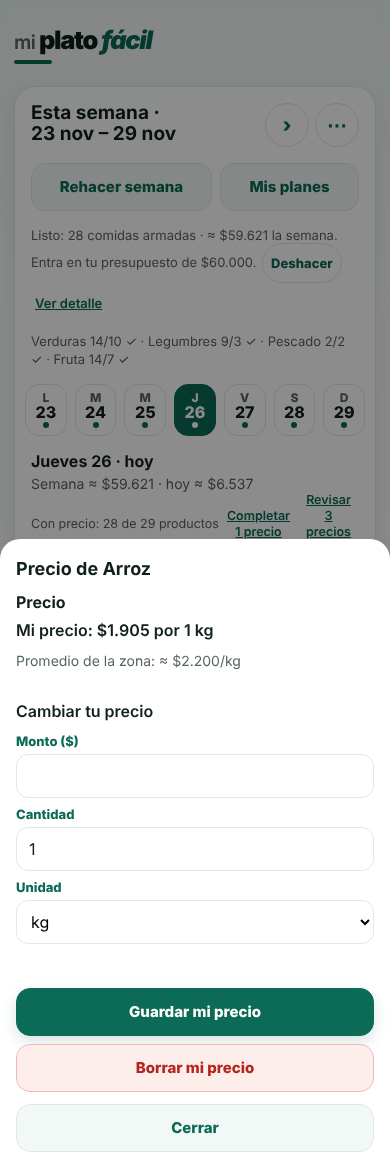
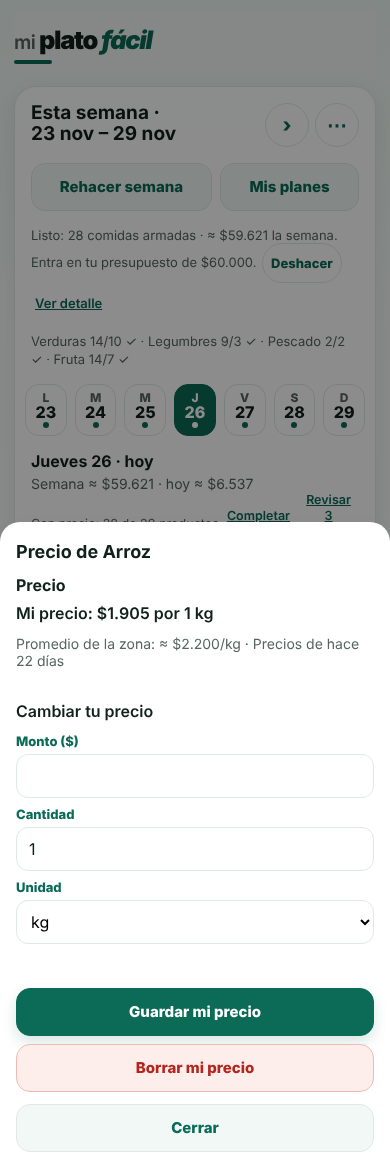
Etapa 45: ajustes de la revisión (ficha de precio con Mi precio, guardas de las opciones de prueba)
Claude-Session: https://claude.ai/code/session_013apjtg9s7WhVBtjMzXPnF4

diff --git a/index.html b/index.html
@@ -7228,7 +7228,7 @@ function shoppingBudgetRender(){
   box.append(ce("p","screen__hint",covered+" ingredientes valorizados; "+unpriced+" sin costo completo; "+otherCurrency+" con precio en otra moneda."));
   if(unpriced||otherCurrency)box.append(ce("p","screen__hint","Comparación parcial: faltan precios."));
   else box.append(ce("p","screen__hint","Con tus precios guardados."));
-  if(typeof antiguedadPrecios==="function"&&preciosActivos()&&antiguedadPrecios())box.append(ce("p","screen__hint presupuesto-antiguedad",[fuentePrecios(undefined,"sepa").replace(" · mediana",""),antiguedadPrecios()].filter(Boolean).join(" · ")));
+  if(typeof antiguedadPrecios==="function"&&preciosActivos()&&totalAutomaticoLista()&&antiguedadPrecios())box.append(ce("p","screen__hint presupuesto-antiguedad",[fuentePrecios(undefined,"sepa").replace(" · mediana",""),antiguedadPrecios()].filter(Boolean).join(" · ")));
   budgetRealLines(box,budget,estimated)
 }
 let budgetScenarioText="";
@@ -15922,10 +15922,10 @@ function fichaPrecio(nombre){
     cont.append(ce("h3","ficha-precio__titulo","Precio"));
     if(dual)for(const x of dual)cont.append(ce("p","ficha-precio__linea",x.texto));
     else cont.append(ce("p","ficha-precio__linea",textoPrecioFicha(nombre)));
-    if(!mio&&antiguedadPrecios())cont.append(ce("p","screen__hint ficha-precio__antiguedad",antiguedadPrecios()));
+    {const auto=mio?null:precioAuto(nombre);if(auto&&auto.fuente==="sepa"&&antiguedadPrecios())cont.append(ce("p","screen__hint ficha-precio__antiguedad",antiguedadPrecios()))}
     if(mio){
       const auto=precioAuto(nombre);
-      if(auto)cont.append(ce("p","screen__hint","Promedio de la zona: ≈ "+pesosCortos(auto.precio)+"/"+(auto.it.b==="l"?"l":auto.it.b==="unidad"?"unidad":"kg")));
+      if(auto)cont.append(ce("p","screen__hint ficha-precio__antiguedad","Promedio de la zona: ≈ "+pesosCortos(auto.precio)+"/"+(auto.it.b==="l"?"l":auto.it.b==="unidad"?"unidad":"kg")+(auto.fuente==="sepa"&&antiguedadPrecios()?" · "+antiguedadPrecios():"")));
       const rev=precioParaRevisar(mio);
       if(rev){
         const caja=ce("div","ficha-precio__revision"),igual=ce("button","button button--soft","Sigue igual"),act=ce("button","button button--primary","Actualizar");

diff --git a/pruebas/r6e45_precios.js b/pruebas/r6e45_precios.js
@@ -22,6 +22,9 @@
   const ficha = ev('(() => { const c = fichaPrecio("Arroz"); document.body.append(c); c.id = "fichaPrueba"; return c.innerText })()');
   ok("R6-P-04 en la ficha de precio, bajo el precio, dice 'Precios de hace 22 días'", /Precios de hace 22 días/.test(ficha) && /≈ \$/.test(ficha), H.norm(ficha).slice(0, 160));
   ev('document.getElementById("fichaPrueba").remove()');
+  // Con Mi precio cargado, el "Promedio de la zona" lleva la antigüedad (es el precio automático el que tiene fecha).
+  const fichaMio = ev('(() => { const o = misPreciosDe; misPreciosDe = () => [{ id: "t1", name: "Arroz", price: 1905, amount: 1, unit: "kg", pack: "granel", currency: "ARS", date: "2026-11-20" }]; try { return fichaPrecio("Arroz").innerText } finally { misPreciosDe = o } })()');
+  ok("R6-P-04 en la ficha de precio con Mi precio cargado, el 'Promedio de la zona' también dice 'Precios de hace 22 días'", /Mi precio: \$1\.905/.test(fichaMio) && /Promedio de la zona: ≈ \$[\d.]+\/kg · Precios de hace 22 días/.test(fichaMio), H.norm(fichaMio).slice(0, 200));
   // Otros días: hoy, ayer, y un teléfono con fecha anterior al archivo no inventa nada.
   const antig = async hoy => { H.fijarFecha(hoy); return ev("antiguedadPrecios()") };
   ok("R6-P-04 la antigüedad se escribe en palabras: hoy, ayer, hace 2 días, hace 120 días; y con la fecha del teléfono anterior a la del archivo no se muestra",

diff --git a/fuente/codigo/43-precios.js b/fuente/codigo/43-precios.js
@@ -813,10 +813,10 @@ function fichaPrecio(nombre){
     cont.append(ce("h3","ficha-precio__titulo","Precio"));
     if(dual)for(const x of dual)cont.append(ce("p","ficha-precio__linea",x.texto));
     else cont.append(ce("p","ficha-precio__linea",textoPrecioFicha(nombre)));
-    if(!mio&&antiguedadPrecios())cont.append(ce("p","screen__hint ficha-precio__antiguedad",antiguedadPrecios()));
+    {const auto=mio?null:precioAuto(nombre);if(auto&&auto.fuente==="sepa"&&antiguedadPrecios())cont.append(ce("p","screen__hint ficha-precio__antiguedad",antiguedadPrecios()))}
     if(mio){
       const auto=precioAuto(nombre);
-      if(auto)cont.append(ce("p","screen__hint","Promedio de la zona: ≈ "+pesosCortos(auto.precio)+"/"+(auto.it.b==="l"?"l":auto.it.b==="unidad"?"unidad":"kg")));
+      if(auto)cont.append(ce("p","screen__hint ficha-precio__antiguedad","Promedio de la zona: ≈ "+pesosCortos(auto.precio)+"/"+(auto.it.b==="l"?"l":auto.it.b==="unidad"?"unidad":"kg")+(auto.fuente==="sepa"&&antiguedadPrecios()?" · "+antiguedadPrecios():"")));
       const rev=precioParaRevisar(mio);
       if(rev){
         const caja=ce("div","ficha-precio__revision"),igual=ce("button","button button--soft","Sigue igual"),act=ce("button","button button--primary","Actualizar");

diff --git a/fuente/codigo/11-existencias-y-presupuesto.js b/fuente/codigo/11-existencias-y-presupuesto.js
@@ -161,7 +161,7 @@ function shoppingBudgetRender(){
   box.append(ce("p","screen__hint",covered+" ingredientes valorizados; "+unpriced+" sin costo completo; "+otherCurrency+" con precio en otra moneda."));
   if(unpriced||otherCurrency)box.append(ce("p","screen__hint","Comparación parcial: faltan precios."));
   else box.append(ce("p","screen__hint","Con tus precios guardados."));
-  if(typeof antiguedadPrecios==="function"&&preciosActivos()&&antiguedadPrecios())box.append(ce("p","screen__hint presupuesto-antiguedad",[fuentePrecios(undefined,"sepa").replace(" · mediana",""),antiguedadPrecios()].filter(Boolean).join(" · ")));
+  if(typeof antiguedadPrecios==="function"&&preciosActivos()&&totalAutomaticoLista()&&antiguedadPrecios())box.append(ce("p","screen__hint presupuesto-antiguedad",[fuentePrecios(undefined,"sepa").replace(" · mediana",""),antiguedadPrecios()].filter(Boolean).join(" · ")));
   budgetRealLines(box,budget,estimated)
 }
 let budgetScenarioText="";

diff --git a/docs/plan-rediseno.md b/docs/plan-rediseno.md
@@ -3319,6 +3319,8 @@ Rama `rediseno-6-etapa-45-precios`. Ítems: P-01, P-02 (⚠), P-03, P-04 y P-
 - ✅ R6-P-03: si SEPA no da precios nuevos y los guardados (`sepa.fecha`, o `revisado` si no hay SEPA) tienen más de 10 días, `actualizar-precios.mjs` termina con código 1 antes de escribir nada: el job queda en rojo y GitHub avisa. Con 10 días o menos, sigue como antes (avisa y conserva lo anterior). Con `--solo-indec` no se mira. Comprobado en la corrida real: "los guardados son de hace 22 días (del 2026-11-04; el máximo es 10) … datos/precios.json queda como estaba". (Decisión) Mientras SEPA esté bloqueado, tampoco se aplica el INDEC mensual de esa corrida: es lo que pide el ítem ("deja datos/precios.json como estaba"); la opción 3 de P-02 lo evita. Se agregaron `--previo` y `--indec-json` (solo para pruebas: un JSON ya armado en lugar del .xls).
 - ✅ R6-P-04: "Precios de hace 22 días" (también "de hoy", "de ayer", "de hace 2 días"…) junto a la fuente en la lista, en el panel de Presupuesto y en la ficha de precio; la cuenta es contra la fecha del teléfono y se calcula con la fecha de SEPA (o la de revisión si no hay SEPA). Con la fecha del teléfono anterior a la del archivo no se muestra nada.
 - ✅ R6-P-05: desde los 14 días la lista muestra un aviso naranja: "Los precios pueden estar desactualizados. Tus precios (Mi precio) se usan primero." Con 13 días no aparece; con los precios apagados, tampoco.
-- Pruebas nuevas: `r6e45_precios.js` (7, en la batería de la app) y `r6e45_precios.mjs` (13, en Node; las corre la compuerta como controles `R6-P-01` a `R6-P-03`, y la tarea de prueba de GitHub). No se adaptó ninguna prueba vieja.
+- Revisión de código (`revisor-codigo`): NO BLOQUEANTE; se aplicaron sus sugerencias: `--previo` y `--indec-json` exigen `--salida` y un `--previo` ilegible falla (nunca caen sobre `datos/precios.json`), el error de red después de un 403 no pierde el 403, la antigüedad de la ficha de precio solo sale con precio automático de SEPA, y la del presupuesto solo si hay precios automáticos. Revisión de capturas (`revisor-usuario`): P-01, P-03 y P-05 HECHO; P-04 NO HECHO en la ficha (con Mi precio cargado, el "Promedio de la zona" no decía la antigüedad): corregido y recapturado, ahora "Promedio de la zona: ≈ $2.200/kg · Precios de hace 22 días". P-02 (⚠): el motivo y las opciones quedaron claros; se agregó una frase sin jerga a la opción 1 y se marcó cuál se recomienda.
+- (Observación, ya estaba en `main`) En la lista, un renglón con una nota larga de la despensa ("Zanahoria: 940 g · revisá …") se rompe en una columna de una letra por línea. No lo introdujo esta etapa; se arregla en la Etapa 46 (que reordena la lista), con una prueba.
+- Pruebas nuevas: `r6e45_precios.js` (8, en la batería de la app) y `r6e45_precios.mjs` (15, en Node; las corre la compuerta como controles `R6-P-01` a `R6-P-03`, y la tarea de prueba de GitHub). No se adaptó ninguna prueba vieja.
 - Infraestructura: `validar-etapa.mjs` acepta 0 a 55, usa `rediseno-6` como rama de integración desde la Etapa 45 y no exige la prueba de un ítem en ⚠ de la Ronda 6; `controlar-lista-r6.mjs` exige los 51 ítems con su control (tipo `prueba` o `comando`) y que cada ✅ tenga su captura (`.png`, o `.txt` con la salida de la herramienta en P-01 a P-03); `capturas.mjs --r6` guarda en `docs/capturas-ronda-6/`; criterios: 51 controles `R6-<ID>` y `R6-N-lista` de la 45 a la 55.
 **Pendientes para vos:** (1) P-02: elegir cómo conseguir los precios de SEPA mientras el portal bloquee a GitHub (3 opciones en `docs/ronda-6-lista.md`). (2) Mientras tanto, la tarea semanal va a fallar en rojo cada martes (es lo que pide P-03).

diff --git a/docs/ronda-6-lista.md b/docs/ronda-6-lista.md
@@ -61,7 +61,7 @@ Cada ítem tiene un control `R6-<ID>` en `docs/validacion/criterios.json` y una 
 
 ### P-02
 **Motivo.** Se reprodujo desde los servidores de GitHub (tarea de prueba disparada a mano el 26/11/2026, corrida 45849889923) y el portal `datos.produccion.gob.ar` responde **HTTP 403** a todo pedido: con el User-Agent de la tarea y con el de Chrome, con `Accept-Language` y `Referer` del portal, y tras 4 intentos con 5, 20 y 60 s de espera (90 s en total). La respuesta es siempre la misma página `403 | Forbidden` (sin cabeceras de CDN), así que es un bloqueo por origen (los servidores de GitHub) y no por la forma del pedido. La herramienta ya reintenta con espera y con cabeceras de navegador y, si el bloqueo sigue, dice qué respondió el portal; eso quedó hecho y probado (pruebas R6-P-02), pero con la tarea corriendo en GitHub no hay forma de bajar el paquete. No se inventó otra fuente. Con lo de P-03, la tarea semanal ahora falla en rojo en vez de decir "sin cambios".
-**Opción 1.** Correr la tarea desde una computadora tuya con conexión argentina (un runner autoalojado de GitHub Actions, o a mano una vez por semana con `node herramientas/actualizar-precios.mjs` y subir `datos/precios.json`): el portal no bloquea ese origen y la herramienta ya acepta `--archivo-sepa` si bajás el ZIP a mano.
+**Opción 1 (la que recomiendo).** Correr la actualización vos, desde tu computadora, una vez por semana: se abre una terminal en la carpeta del proyecto, se corre `node herramientas/actualizar-precios.mjs` y se sube el `datos/precios.json` que queda (también se puede dejar armado como "runner autoalojado" de GitHub Actions para que lo haga solo): el portal no bloquea ese origen y la herramienta ya acepta `--archivo-sepa` si bajás el ZIP a mano.
 **Opción 2.** Pedirle a la Secretaría de Comercio (el portal de datos abiertos, `datos.produccion.gob.ar`) que deje pasar los servidores de GitHub Actions, o que te den una clave de acceso; si la dan, se carga como secreto del repositorio y la herramienta la manda en el pedido.
 **Opción 3.** Aceptar que los precios de SEPA se actualicen solo cuando vos los subas, y dejar la tarea semanal solo con INDEC (`--solo-indec`), que no tiene el problema: los precios de supermercado quedarían con la fecha de la última carga y la app ya avisa su antigüedad (P-04 y P-05).
 
